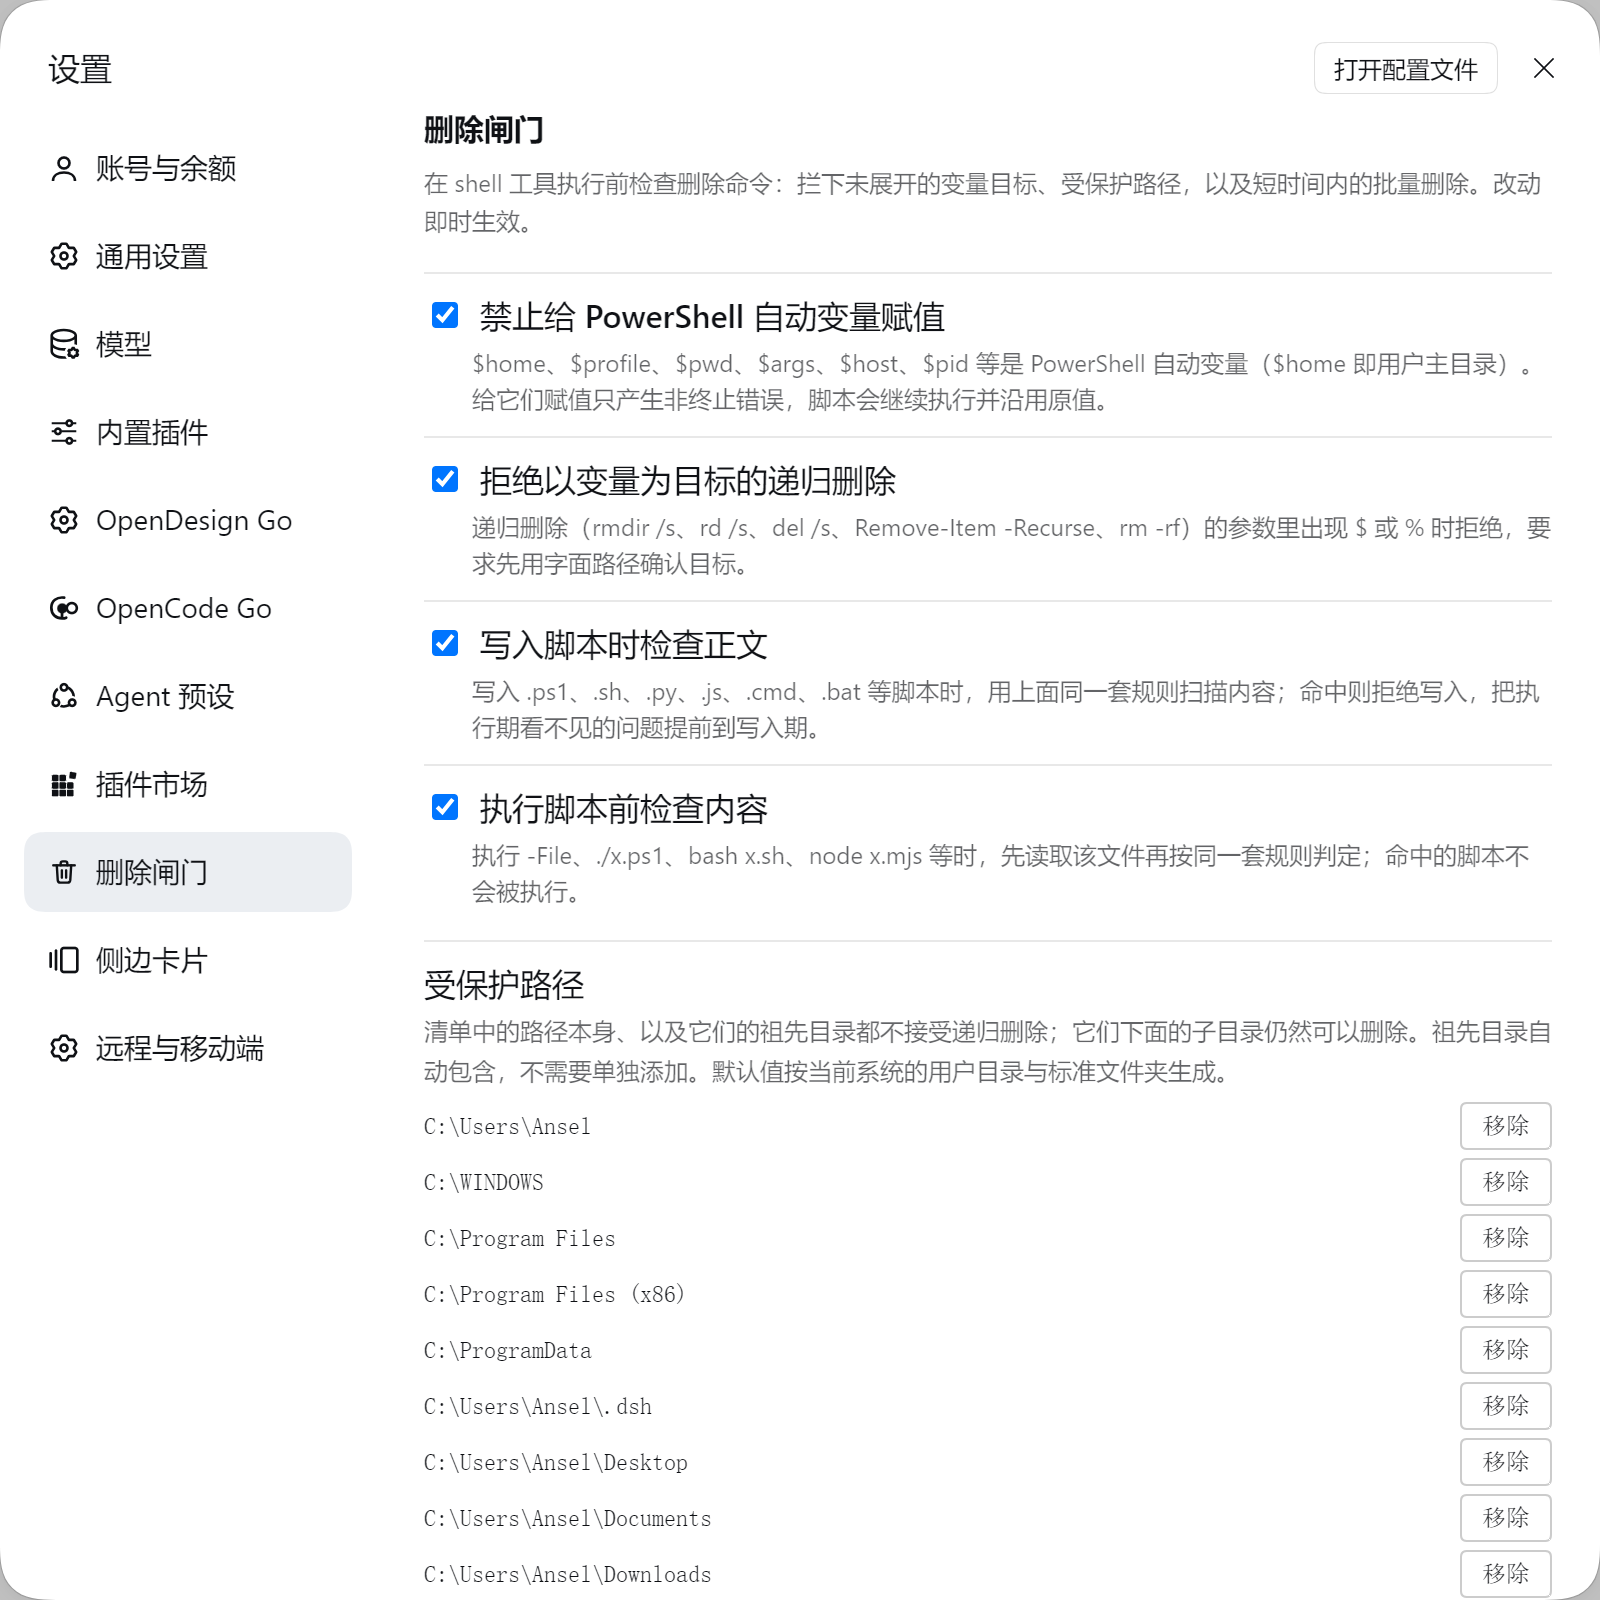
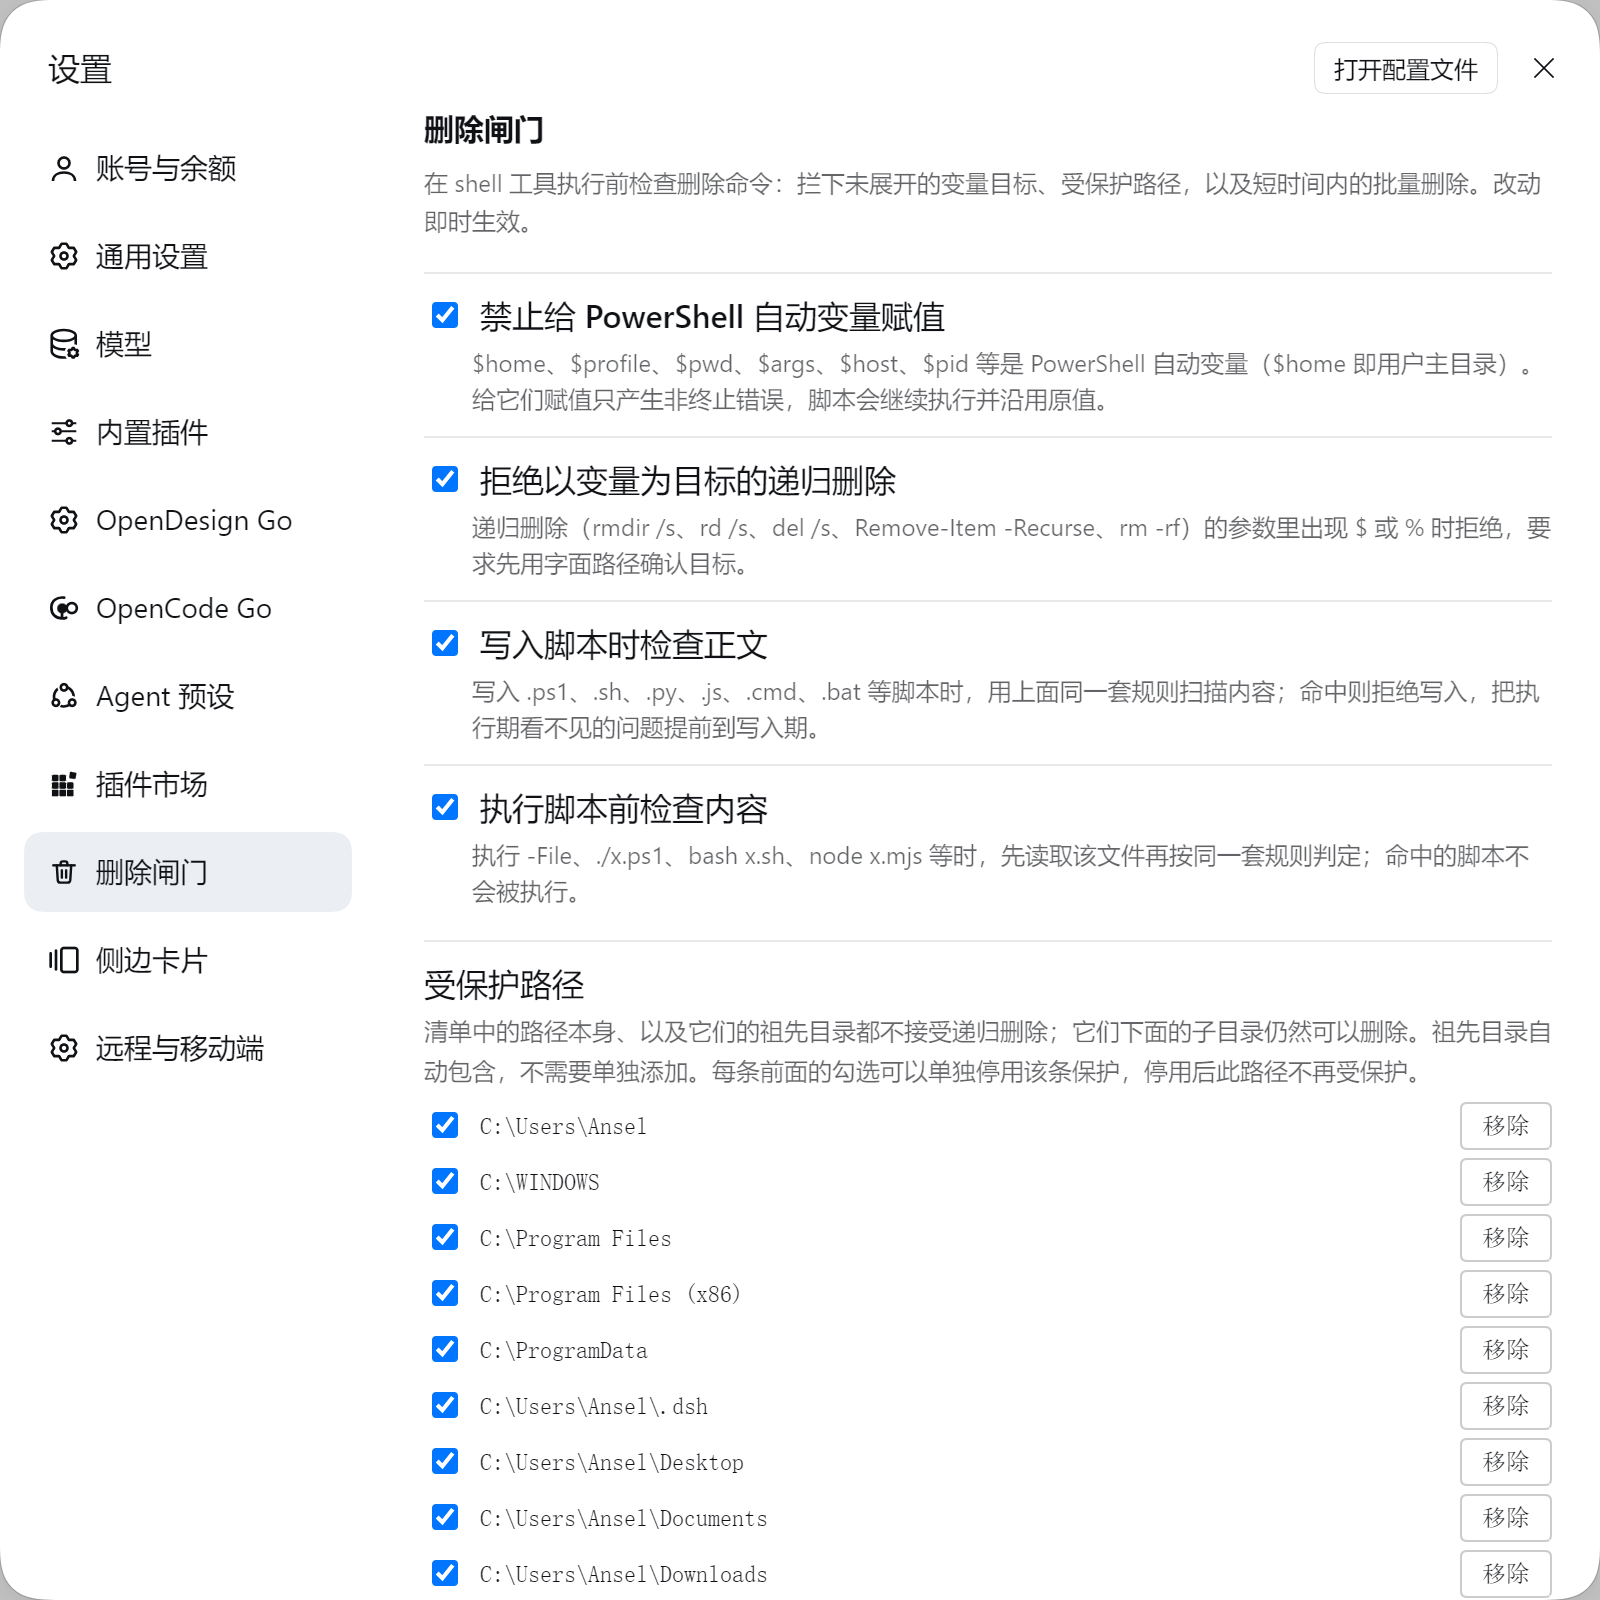
feat: per-path enable switch, drop the blanket allow (1.3.1)
- protectedPaths entries are { path, enabled }; legacy string arrays still accepted
- each row in Settings has a checkbox, so one path can be suspended without removing it
- the global 5-minute bypass is removed: no single click releases everything
- a blocked delete now lists every protected entry that stands in the way,
  so it is obvious that switching one entry off does not approve the rest

Changed region(s): [[0.25, 0.6875, 0.4688, 1.0], [0.4375, 0.6562, 0.875, 0.6875], [0.4062, 0.7812, 0.4375, 0.8125]]

diff --git a/client.js b/client.js
@@ -115,7 +115,6 @@ window.__ModuleLoader__.load({
       scanScriptExec: true,
       maxDeletesPerWindow: 20,
       windowSeconds: 60,
-      allowUntil: 0,
     }
 
     const styles = {
@@ -177,18 +176,16 @@ window.__ModuleLoader__.load({
 
       const value = (snap && snap.value) || {}
       const effective = (key) => (typeof value[key] === 'boolean' ? value[key] : FULL_DEFAULTS[key])
-      const protectedPaths = Array.isArray(value.protectedPaths) ? value.protectedPaths : []
+      // 兼容旧版字符串数组与新版 { path, enabled }
+      const protectedPaths = (Array.isArray(value.protectedPaths) ? value.protectedPaths : [])
+        .map(function (item) {
+          if (typeof item === 'string') return { path: item, enabled: true }
+          if (item && typeof item.path === 'string') return { path: item.path, enabled: item.enabled !== false }
+          return null
+        })
+        .filter(Boolean)
       const maxPerWindow = typeof value.maxDeletesPerWindow === 'number' ? value.maxDeletesPerWindow : FULL_DEFAULTS.maxDeletesPerWindow
       const windowSeconds = typeof value.windowSeconds === 'number' ? value.windowSeconds : FULL_DEFAULTS.windowSeconds
-      const allowUntil = typeof value.allowUntil === 'number' ? value.allowUntil : 0
-
-      const [nowTick, setNowTick] = React.useState(Date.now())
-      const bypassLeft = allowUntil - nowTick
-      React.useEffect(function () {
-        if (!(allowUntil > Date.now())) return
-        const timer = setInterval(function () { setNowTick(Date.now()) }, 1000)
-        return function () { clearInterval(timer) }
-      }, [allowUntil])
 
       const write = function (key, next, tag) {
         setError(null)
@@ -206,7 +203,7 @@ window.__ModuleLoader__.load({
           setError(t(lang, '请填写绝对路径，例如 D:\\Projects\\my-app 或 /Users/me/projects', 'Enter an absolute path, e.g. D:\\Projects\\my-app or /Users/me/projects'))
           return
         }
-        const exists = protectedPaths.some((p) => p.toLowerCase() === candidate.toLowerCase())
+        const exists = protectedPaths.some((entry) => entry.path.toLowerCase() === candidate.toLowerCase())
         if (exists) {
           setError(t(lang, '该路径已在清单里', 'That path is already in the list'))
           return
@@ -214,22 +211,28 @@ window.__ModuleLoader__.load({
         // 祖先自动受保护：候选路径若覆盖了已有清单项，就属于重复定义
         const simple = function (p) { return p.trim().replace(/\//g, '\\').replace(/\\+$/, '').toLowerCase() }
         const target = simple(candidate)
-        const coveredBy = protectedPaths.find(function (p) {
-          const np = simple(p)
+        const coveredBy = protectedPaths.find(function (entry) {
+          const np = simple(entry.path)
           return np === target || np.indexOf(target + '\\') === 0
         })
         if (coveredBy) {
           setError(t(lang,
-            '该路径已被「' + coveredBy + '」覆盖：清单项的上层目录自动受保护，不需要单独添加。',
-            'Already covered by "' + coveredBy + '": ancestors of a listed path are protected automatically.',
+            '该路径已被「' + coveredBy.path + '」覆盖：清单项的上层目录自动受保护，不需要单独添加。',
+            'Already covered by "' + coveredBy.path + '": ancestors of a listed path are protected automatically.',
           ))
           return
         }
-        write('protectedPaths', protectedPaths.concat(candidate), 'paths').then(function () { setDraft('') })
+        write('protectedPaths', protectedPaths.concat({ path: candidate, enabled: true }), 'paths').then(function () { setDraft('') })
       }
 
       const removePath = function (target) {
-        write('protectedPaths', protectedPaths.filter((p) => p !== target), 'paths')
+        write('protectedPaths', protectedPaths.filter((entry) => entry.path !== target), 'paths')
+      }
+
+      const togglePath = function (target, enabled) {
+        write('protectedPaths', protectedPaths.map(function (entry) {
+          return entry.path === target ? { path: entry.path, enabled: enabled } : entry
+        }), 'paths')
       }
 
       const rateOn = maxPerWindow > 0
@@ -256,17 +259,28 @@ window.__ModuleLoader__.load({
             t(lang, '受保护路径', 'Protected paths')),
           h('div', { key: 'desc', style: { fontSize: 12, opacity: 0.65, lineHeight: 1.6 } },
             t(lang,
-              '清单中的路径本身、以及它们的祖先目录都不接受递归删除；它们下面的子目录仍然可以删除。祖先目录自动包含，不需要单独添加。默认值按当前系统的用户目录与标准文件夹生成。',
-              'A listed path and its ancestors cannot be recursively deleted; anything below a listed path still can. Ancestors are included automatically. Defaults are derived from this system\'s home directory and standard folders.',
+              '清单中的路径本身、以及它们的祖先目录都不接受递归删除；它们下面的子目录仍然可以删除。祖先目录自动包含，不需要单独添加。每条前面的勾选可以单独停用该条保护，停用后此路径不再受保护。',
+              'A listed path and its ancestors cannot be recursively deleted; anything below a listed path still can. Ancestors are included automatically. The checkbox in front of each entry switches that single entry off.',
             )),
-          h('ul', { key: 'list', style: styles.list }, protectedPaths.map((p) => h('li', { key: p, style: styles.item }, [
-            h('span', { key: 'p', style: { flex: 1, wordBreak: 'break-all' } }, p),
+          h('ul', { key: 'list', style: styles.list }, protectedPaths.map((entry) => h('li', {
+            key: entry.path,
+            style: { display: 'flex', alignItems: 'center', gap: 8, fontSize: 12, fontFamily: 'ui-monospace, SFMono-Regular, Menlo, monospace', opacity: entry.enabled ? 1 : 0.45 },
+          }, [
+            h('input', {
+              key: 'on',
+              type: 'checkbox',
+              checked: entry.enabled,
+              disabled: busy === 'paths',
+              title: t(lang, '启用这条保护', 'Enable this entry'),
+              onChange: function (e) { togglePath(entry.path, e.target.checked) },
+            }),
+            h('span', { key: 'p', style: { flex: 1, wordBreak: 'break-all' } }, entry.path),
             h('button', {
               key: 'x',
               type: 'button',
               style: styles.btn,
               disabled: busy === 'paths',
-              onClick: function () { removePath(p) },
+              onClick: function () { removePath(entry.path) },
             }, t(lang, '移除', 'Remove')),
           ]))),
           protectedPaths.length === 0
@@ -341,34 +355,6 @@ window.__ModuleLoader__.load({
                 h('span', { key: 'c' }, t(lang, '秒', 'seconds')),
               ])
             : null,
-        ]),
-
-        h('div', { key: 'allow', style: styles.row }, [
-          h('div', { key: 't', style: { fontWeight: 500, marginBottom: 4 } },
-            t(lang, '临时放行', 'Temporary allow')),
-          h('div', { key: 'd', style: { fontSize: 12, opacity: 0.65, lineHeight: 1.6, marginBottom: 8 } },
-            t(lang,
-              '开启后 5 分钟内跳过全部检查，到点自动失效。只在对某次删除确认过之后使用；被拦下的命令让模型等你开这个窗口再重试。',
-              'Skips every check for 5 minutes, then expires on its own. Use it only after confirming a specific delete; when a command is blocked, tell the agent to retry once you have opened this window.')),
-          bypassLeft > 0
-            ? h('div', { key: 'on', style: { display: 'flex', alignItems: 'center', gap: 10, fontSize: 12 } }, [
-                h('span', { key: 's', style: { color: 'darkorange', fontWeight: 500 } },
-                  t(lang, `放行中，剩余 ${Math.ceil(bypassLeft / 1000)} 秒`, `Allowed — ${Math.ceil(bypassLeft / 1000)}s left`)),
-                h('button', {
-                  key: 'c',
-                  type: 'button',
-                  style: styles.btn,
-                  disabled: busy === 'allow',
-                  onClick: function () { write('allowUntil', 0, 'allow') },
-                }, t(lang, '立即取消', 'Cancel now')),
-              ])
-            : h('button', {
-                key: 'b',
-                type: 'button',
-                style: styles.btn,
-                disabled: busy === 'allow',
-                onClick: function () { write('allowUntil', Date.now() + 5 * 60 * 1000, 'allow') },
-              }, t(lang, '临时放行 5 分钟', 'Allow for 5 minutes')),
         ]),
 
         error ? h('p', { key: 'err', style: styles.err }, t(lang, '保存失败：', 'Save failed: ') + error) : null,

diff --git a/README.md b/README.md
@@ -62,10 +62,9 @@ Everything is editable from **Settings → Delete guard** and takes effect on th
 | `blockVariableDelete` | `true` | Deny recursive deletes whose arguments contain `$` or `%` |
 | `scanScriptWrites` | `true` | Scan script content when a file is written through the `write`/`edit` tools |
 | `scanScriptExec` | `true` | Read the file and scan it before a script runs |
-| `protectedPaths` | platform-derived (see below) | Paths that cannot be recursively deleted |
+| `protectedPaths` | platform-derived (see below) | Paths that cannot be recursively deleted; each entry carries an `enabled` switch |
 | `maxDeletesPerWindow` | `20` | Delete commands allowed per window; `0` disables the limit |
 | `windowSeconds` | `60` | Rate-limit window |
-| `allowUntil` | `0` | Epoch milliseconds until which every check is skipped; written by **Allow for 5 minutes** |
 
 ## When a call is blocked
 
@@ -86,15 +85,18 @@ Two ways forward, and the message names both:
 
 1. **Change the command** — resolve the target to a literal path and print it first
    (`Resolve-Path` + `Write-Output`), or point the delete at a concrete subdirectory instead of a
-   protected root.
-2. **Open a five-minute window** — Settings → Delete guard → **Allow for 5 minutes**. Every check is
-   skipped until it expires, the panel shows a live countdown, and the host logs each bypassed call so
-   the window leaves a trace.
+   protected root. Both of these are things an agent follows from the instructions alone, so they are
+   not "allowed" — they are simply written correctly.
+2. **Switch that path off** — for a protected path, open Settings → Delete guard and clear the
+   checkbox in front of that entry (or remove it), then retry. Approval is per entry on purpose: there
+   is no "allow everything" button, and the refusal lists **every** entry that stands in the way, so
+   disabling one obviously does not blanket-approve the rest.
 
-![Temporary allow](docs/allow-en.png)
+![Protected paths with per-entry switches](docs/settings-en.png)
 
-The system prompt tells the agent the same thing: when blocked, explain why and ask you to open the
-window — do not retry with obfuscated variants.
+The system prompt tells the agent the same thing: rewrite the variable rules with a literal path; for a
+protected path, explain it and ask you to switch that single entry off — never work around the check
+with quoting tricks, string splitting or base64.
 
 The same values live in the profile's `cordis.patch.yml`:
 

diff --git a/README.zh-CN.md b/README.zh-CN.md
@@ -56,10 +56,9 @@ dsh plugin --profile <profile> add @voltarenyah/dsh-delete-guard
 | `blockVariableDelete` | `true` | 递归删除参数里出现 `$` 或 `%` 时拒绝 |
 | `scanScriptWrites` | `true` | 通过 `write`/`edit` 写脚本文件时扫描正文 |
 | `scanScriptExec` | `true` | 执行脚本前读取文件内容再判定 |
-| `protectedPaths` | 按平台生成（见下） | 不接受递归删除的路径清单 |
+| `protectedPaths` | 按平台生成（见下） | 不接受递归删除的路径清单，每条带 `enabled` 开关 |
 | `maxDeletesPerWindow` | `20` | 窗口内允许的删除命令数，`0` 关闭 |
 | `windowSeconds` | `60` | 熔断窗口（秒） |
-| `allowUntil` | `0` | 临时放行的截止时间（毫秒时间戳），由「临时放行 5 分钟」写入 |
 
 ## 被拦截时
 
@@ -78,13 +77,15 @@ To proceed: …
 两条出路，文案里都写了：
 
 1. **改命令**——把目标解析成字面路径并先打印（`Resolve-Path` + `Write-Output`），或者把删除指向
-   具体子目录，而不是受保护的那个根。
-2. **开一个 5 分钟窗口**——设置 → 删除闸门 →「临时放行 5 分钟」。到期前跳过全部检查，面板上有
-   实时倒计时，宿主会为每次被放行的调用打一条日志，事后查得到。
+   具体子目录，而不是受保护的那个根。这两件事模型按指令就能做到，所以不设"放行"，只要求写对。
+2. **关掉那一条路径**——如果命令已经是字面路径、仍因保护路径被拦，在 设置 → 删除闸门 里把该条
+   前面的勾去掉（或移除），然后重试。审批是按条目的：没有"一键全放开"的按钮，而且拒绝信息会
+   **列出所有拦路的条目**——关掉一条显然不等于放行其余的。
 
-![临时放行](docs/allow-zh.png)
+![受保护路径与逐条开关](docs/settings-zh.png)
 
-系统提示词里也写了同样的规则：被拦时先解释原因、请你开窗口，而不是换个写法硬闯。
+系统提示词里也写了同样的规则：变量类规则改写为字面路径；保护路径类则说明原因、请用户关掉那一条，
+不要用引号、拆字符串、base64 之类的手法硬闯。
 
 同一份配置也写在 profile 的 `cordis.patch.yml`：
 
